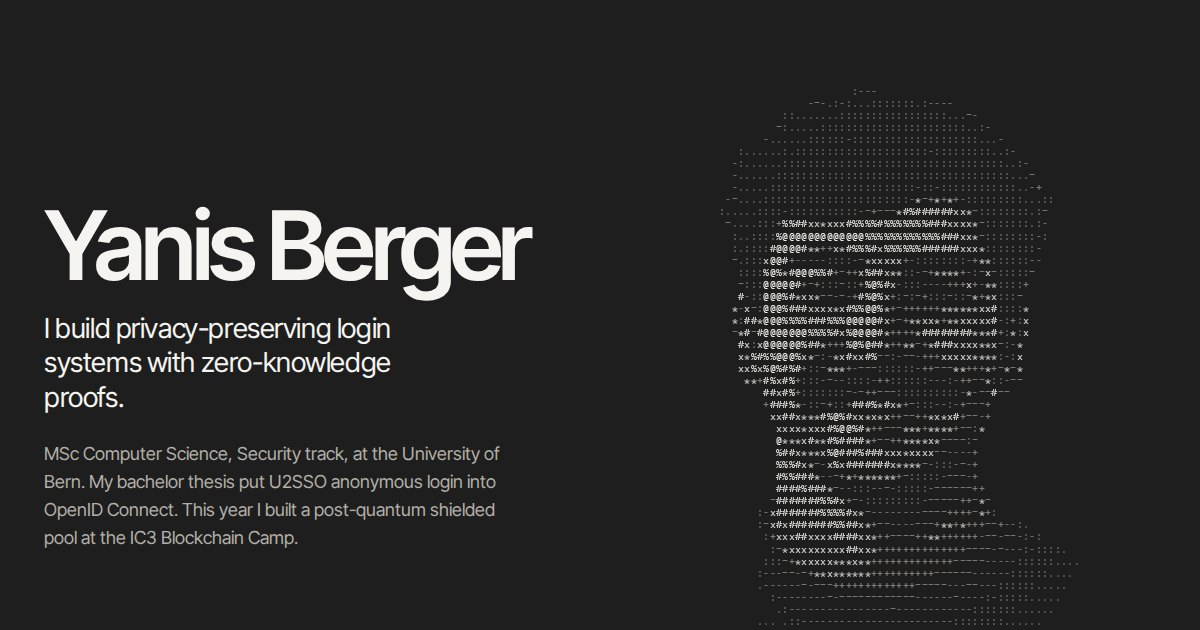
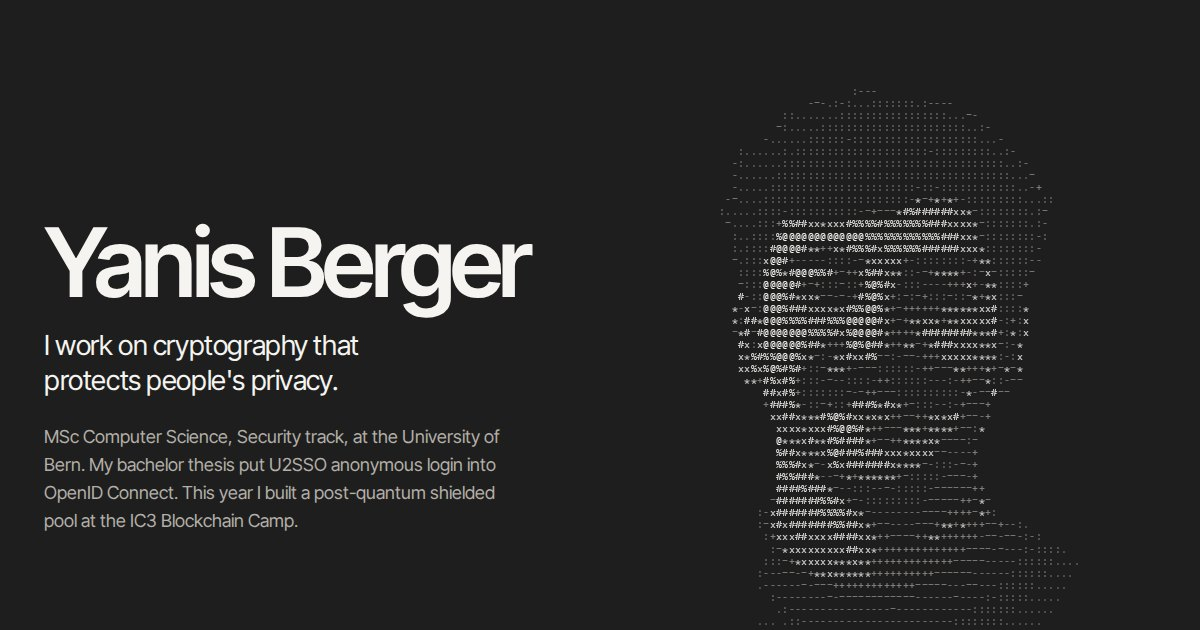
minor tweaks

Changed region(s): [[0.0308, 0.5127, 0.4317, 0.8746], [0.0308, 0.3317, 0.4625, 0.5127]]

diff --git a/index.html b/index.html
@@ -4,9 +4,9 @@
     <meta charset="UTF-8" />
     <meta name="viewport" content="width=device-width, initial-scale=1.0" />
     <title>Yanis Berger · Security and cryptography</title>
-    <meta name="description" content="Yanis Berger builds privacy-preserving login systems with zero-knowledge proofs. MSc Computer Science, Security track, University of Bern." />
+    <meta name="description" content="Yanis Berger works on cryptography that protects people's privacy. MSc Computer Science, Security track, University of Bern." />
     <meta property="og:title" content="Yanis Berger" />
-    <meta property="og:description" content="Privacy-preserving login systems with zero-knowledge proofs. MSc Computer Science, University of Bern." />
+    <meta property="og:description" content="Cryptography that protects people's privacy. MSc Computer Science, Security track, University of Bern." />
     <meta property="og:type" content="website" />
     <meta property="og:url" content="https://yanisberger.ch/" />
     <meta property="og:image" content="https://yanisberger.ch/share.jpg" />

diff --git a/src/i18n/translations.js b/src/i18n/translations.js
@@ -15,7 +15,7 @@ export const translations = {
       skip: 'Skip to content',
     },
     hero: {
-      lead: 'I build privacy-preserving login systems with zero-knowledge proofs.',
+      lead: "I work on cryptography that protects people's privacy.",
       body: 'MSc Computer Science, Security track, at the University of Bern. My bachelor thesis put U2SSO anonymous login into OpenID Connect. This year I built a post-quantum shielded pool at the IC3 Blockchain Camp.',
       cta: 'See my work',
       resume: 'Download resume',
@@ -130,7 +130,7 @@ export const translations = {
       skip: 'Zum Inhaut',
     },
     hero: {
-      lead: 'I boue Login-System mit Zero-Knowledge Proofs, wo d Privatsphäre schütze.',
+      lead: 'I schaffe a Kryptografie, wo d Privatsphäre vo de Lüt schützt.',
       body: 'MSc Informatik, Security Track, ar Uni Bärn. Mini Bachelor-Arbet het ds anonyme U2SSO-Login i OpenID Connect iibout. Das Jahr hani am IC3 Blockchain Camp e post-quantum Shielded Pool bout.',
       cta: 'Lueg mini Projekt ah',
       resume: 'Läbeslouf abelade',
